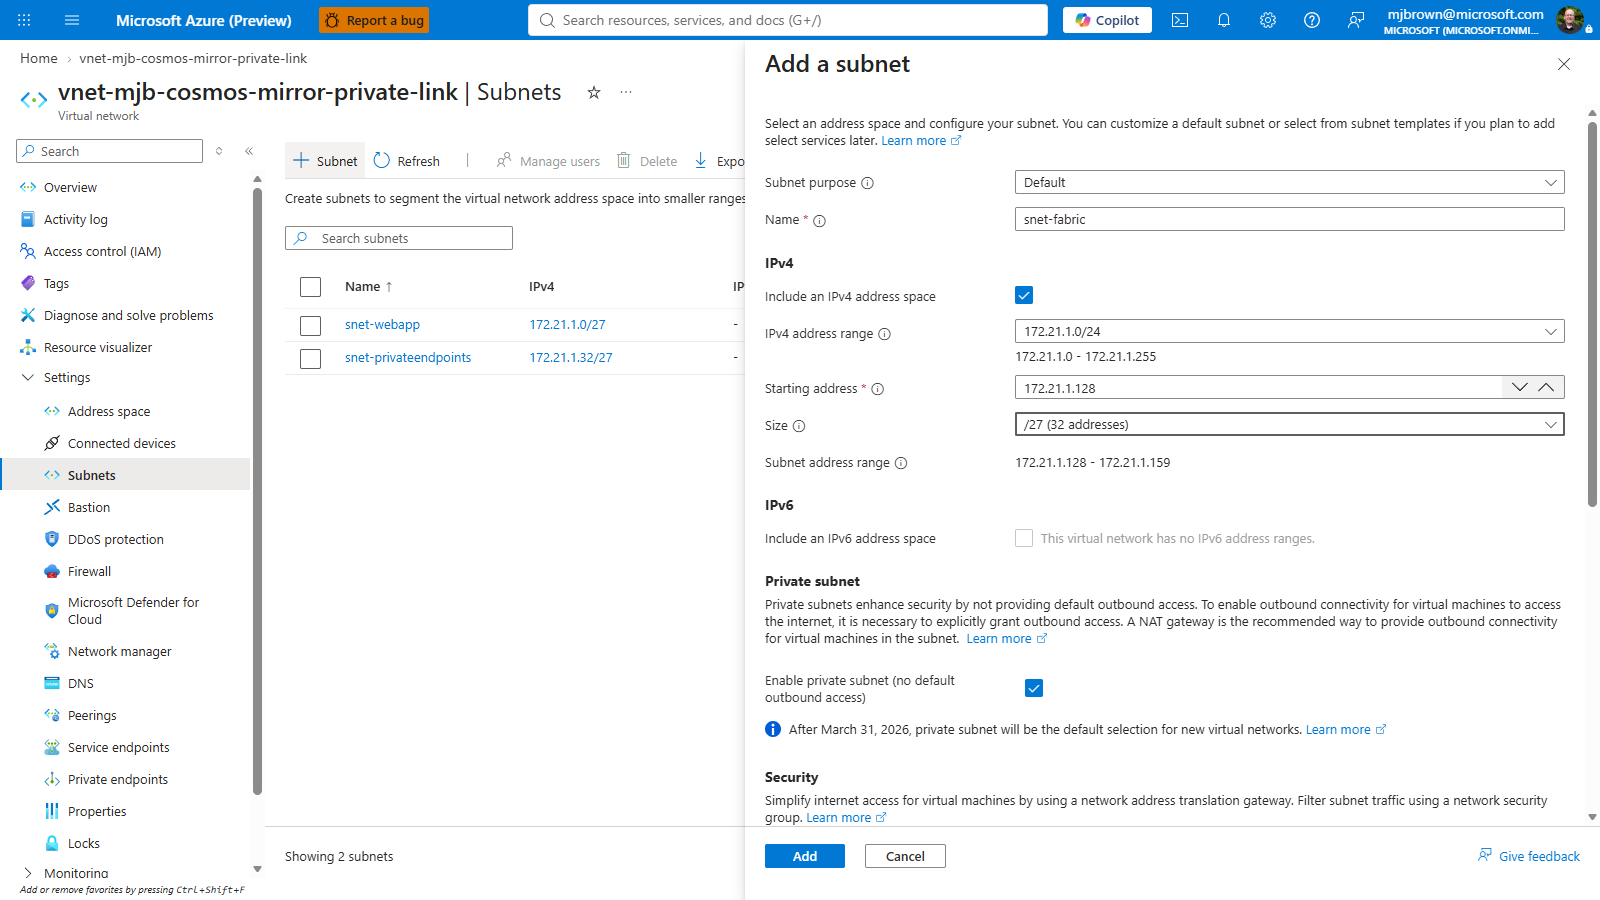
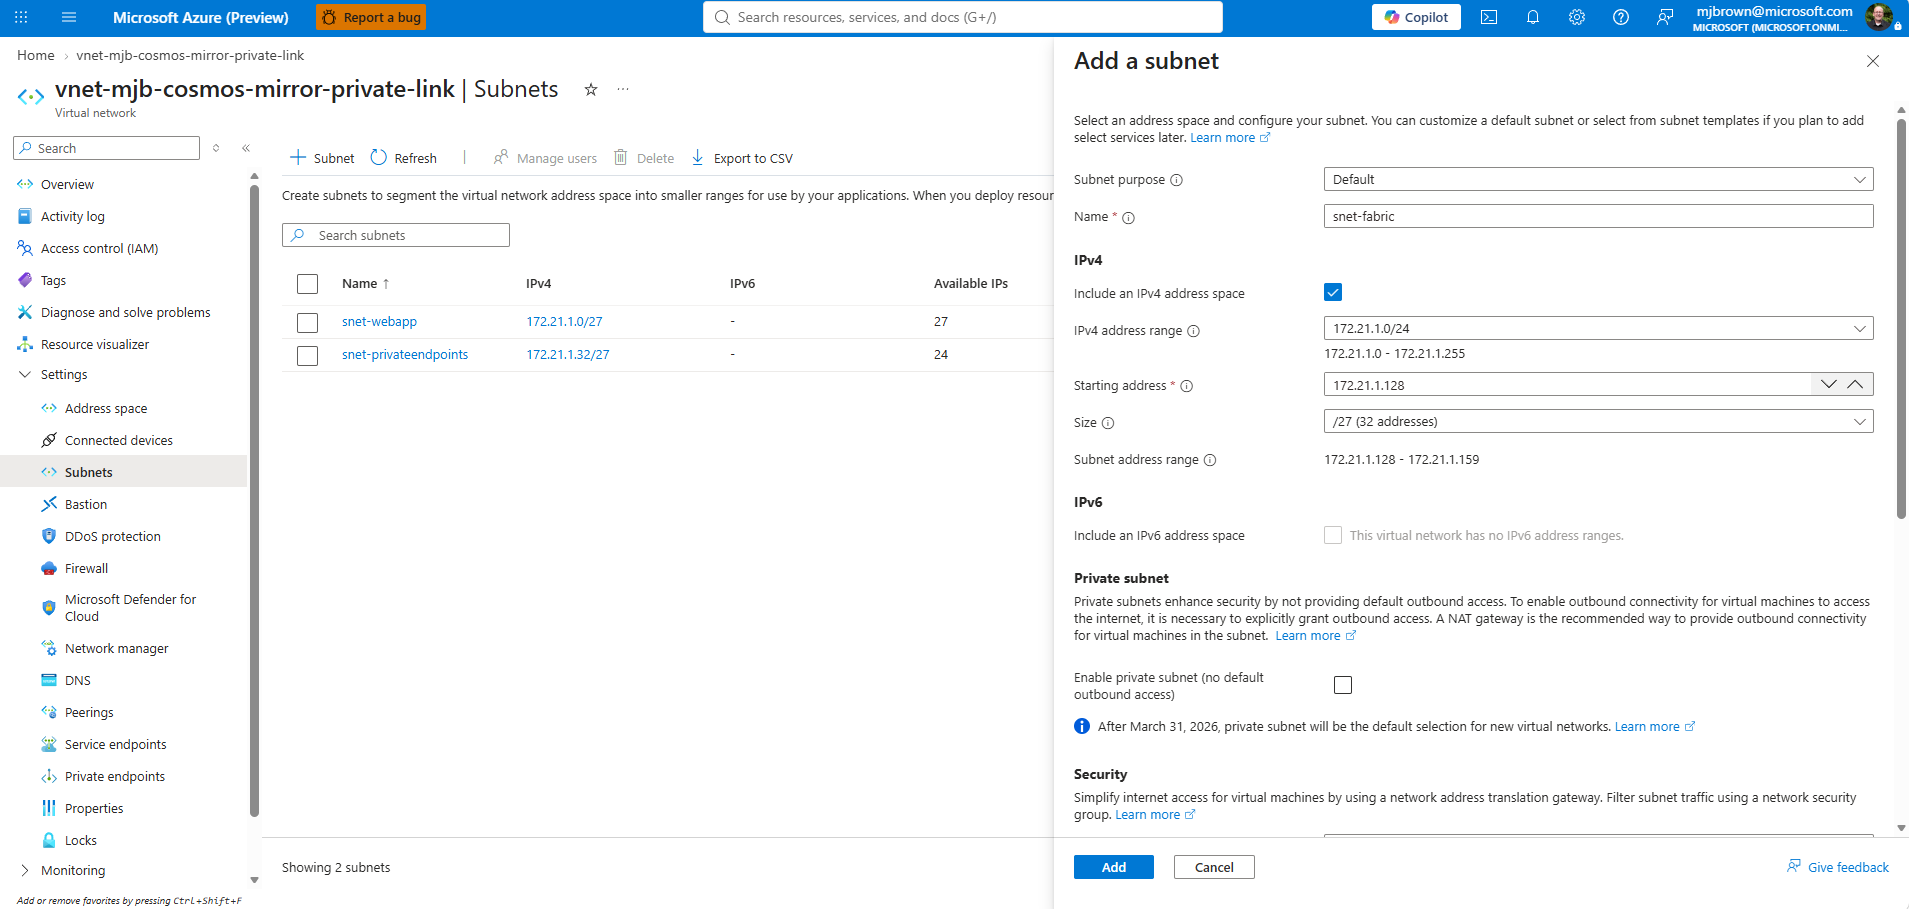
Docs: Step 2 — call out 'Enable private subnet' unchecked; refreshed screenshots
Updated the Add-subnet screenshots (04 top, 05 delegation) to the cleaner state
with 'Enable private subnet (no default outbound access)' unchecked. Added a table
row and callouts making that explicit, and reframed the outbound note: unchecking
the box (default outbound) is the simple option, with a NAT gateway as the durable
alternative (default outbound retires after March 31, 2026).

Copilot-Session: 74c2353f-74d6-4cd1-8891-f73f48d915a9

diff --git a/docs/mirroring-over-private-link.md b/docs/mirroring-over-private-link.md
@@ -101,15 +101,20 @@ Your account is reachable through an approved **private endpoint** (public acces
    |---|---|---|
    | **Name** | `snet-fabric` | Any name; dedicated to the gateway |
    | **Size / address range** | `/27` (32 IPs) | **Minimum `/27`** — smaller is rejected. Must not overlap other subnets |
+   | **Enable private subnet (no default outbound access)** | **Unchecked** | Leave this **unchecked** so the subnet keeps default outbound access to Azure AD — required for the Step 7 OAuth sign-in |
    | **Subnet delegation** | `Microsoft.PowerPlatform/vnetaccesslinks` | Required — this is what makes it a gateway subnet |
    | **Private endpoint network policies** | Disabled | Recommended |
 
-   ![Add a subnet — name and /27 size](media/private-link-mirroring/04-add-subnet-size-27.png)
+   ![Add a subnet — name, /27 size, and "Enable private subnet (no default outbound access)" unchecked](media/private-link-mirroring/04-add-subnet-size-27.png)
+
+   > **Leave "Enable private subnet (no default outbound access)" *unchecked*** (as shown
+   > above). This keeps default outbound access so the gateway can reach Azure AD for the
+   > Step 7 OAuth sign-in. See the outbound note below.
 
    Under **Subnet Delegation → Delegate subnet to a service**, choose
-   `Microsoft.PowerPlatform/vnetaccesslinks`:
+   `Microsoft.PowerPlatform/vnetaccesslinks` (note the private-subnet box remains unchecked):
 
-   ![Add a subnet — delegation set to Microsoft.PowerPlatform/vnetaccesslinks](media/private-link-mirroring/05-add-subnet-delegation-powerplatform.png)
+   ![Add a subnet — delegation set to Microsoft.PowerPlatform/vnetaccesslinks, private subnet unchecked](media/private-link-mirroring/05-add-subnet-delegation-powerplatform.png)
 
 4. Select **Add**.
 
@@ -118,23 +123,26 @@ Your account is reachable through an approved **private endpoint** (public acces
 endpoint, or a peered VNet with routing) and resolve the Cosmos private DNS
 (`privatelink.documents.azure.com`); avoid overlapping `10.0.1.x`.
 
-> ### ⚠ Outbound internet access is required on this subnet
+> ### ⚠ The subnet needs outbound access to Azure AD
 > The VNet data gateway must reach **Azure AD (`login.microsoftonline.com`)** to complete the
-> OAuth sign-in in **Step 7**. The Add-subnet blade checks **"Enable private subnet (no default
-> outbound access)"** by default, which **blocks** that. Give the subnet outbound internet —
-> attach a **NAT gateway** (recommended):
+> OAuth sign-in in **Step 7**. Make sure the subnet has outbound internet:
 >
-> **Azure portal:** create a **NAT gateway** (with a new **Standard public IP**) in the same
-> region, and on its **Subnets** tab associate it with `snet-fabric`. (Or: **Virtual network →
-> Subnets → snet-fabric → NAT gateway**.)
+> - **Simplest (shown above):** leave **"Enable private subnet (no default outbound access)"**
+>   **unchecked** — the subnet then keeps default outbound access.
+> - **Recommended for the long term:** attach a **NAT gateway** — default outbound access is
+>   scheduled to be retired after **March 31, 2026**, after which a NAT gateway (or other
+>   explicit egress) is required:
 >
-> **Azure CLI:**
-> ```bash
-> RG="rg-<env>"; VNET="vnet-<env>"; LOC="<region>"
-> az network public-ip create -g "$RG" -n pip-nat-fabric --sku Standard --allocation-method Static -l "$LOC"
-> az network nat gateway create  -g "$RG" -n nat-fabric --public-ip-addresses pip-nat-fabric -l "$LOC"
-> az network vnet subnet update   -g "$RG" --vnet-name "$VNET" -n snet-fabric --nat-gateway nat-fabric
-> ```
+>   **Azure portal:** create a **NAT gateway** (with a new **Standard public IP**) in the same
+>   region, and on its **Subnets** tab associate it with `snet-fabric`.
+>
+>   **Azure CLI:**
+>   ```bash
+>   RG="rg-<env>"; VNET="vnet-<env>"; LOC="<region>"
+>   az network public-ip create -g "$RG" -n pip-nat-fabric --sku Standard --allocation-method Static -l "$LOC"
+>   az network nat gateway create  -g "$RG" -n nat-fabric --public-ip-addresses pip-nat-fabric -l "$LOC"
+>   az network vnet subnet update   -g "$RG" --vnet-name "$VNET" -n snet-fabric --nat-gateway nat-fabric
+>   ```
 >
 > Without outbound access, creating the Cosmos DB v2 connection in Step 7 fails with:
 > *"OAuth login through the data gateway was unsuccessful … The service returned an invalid
